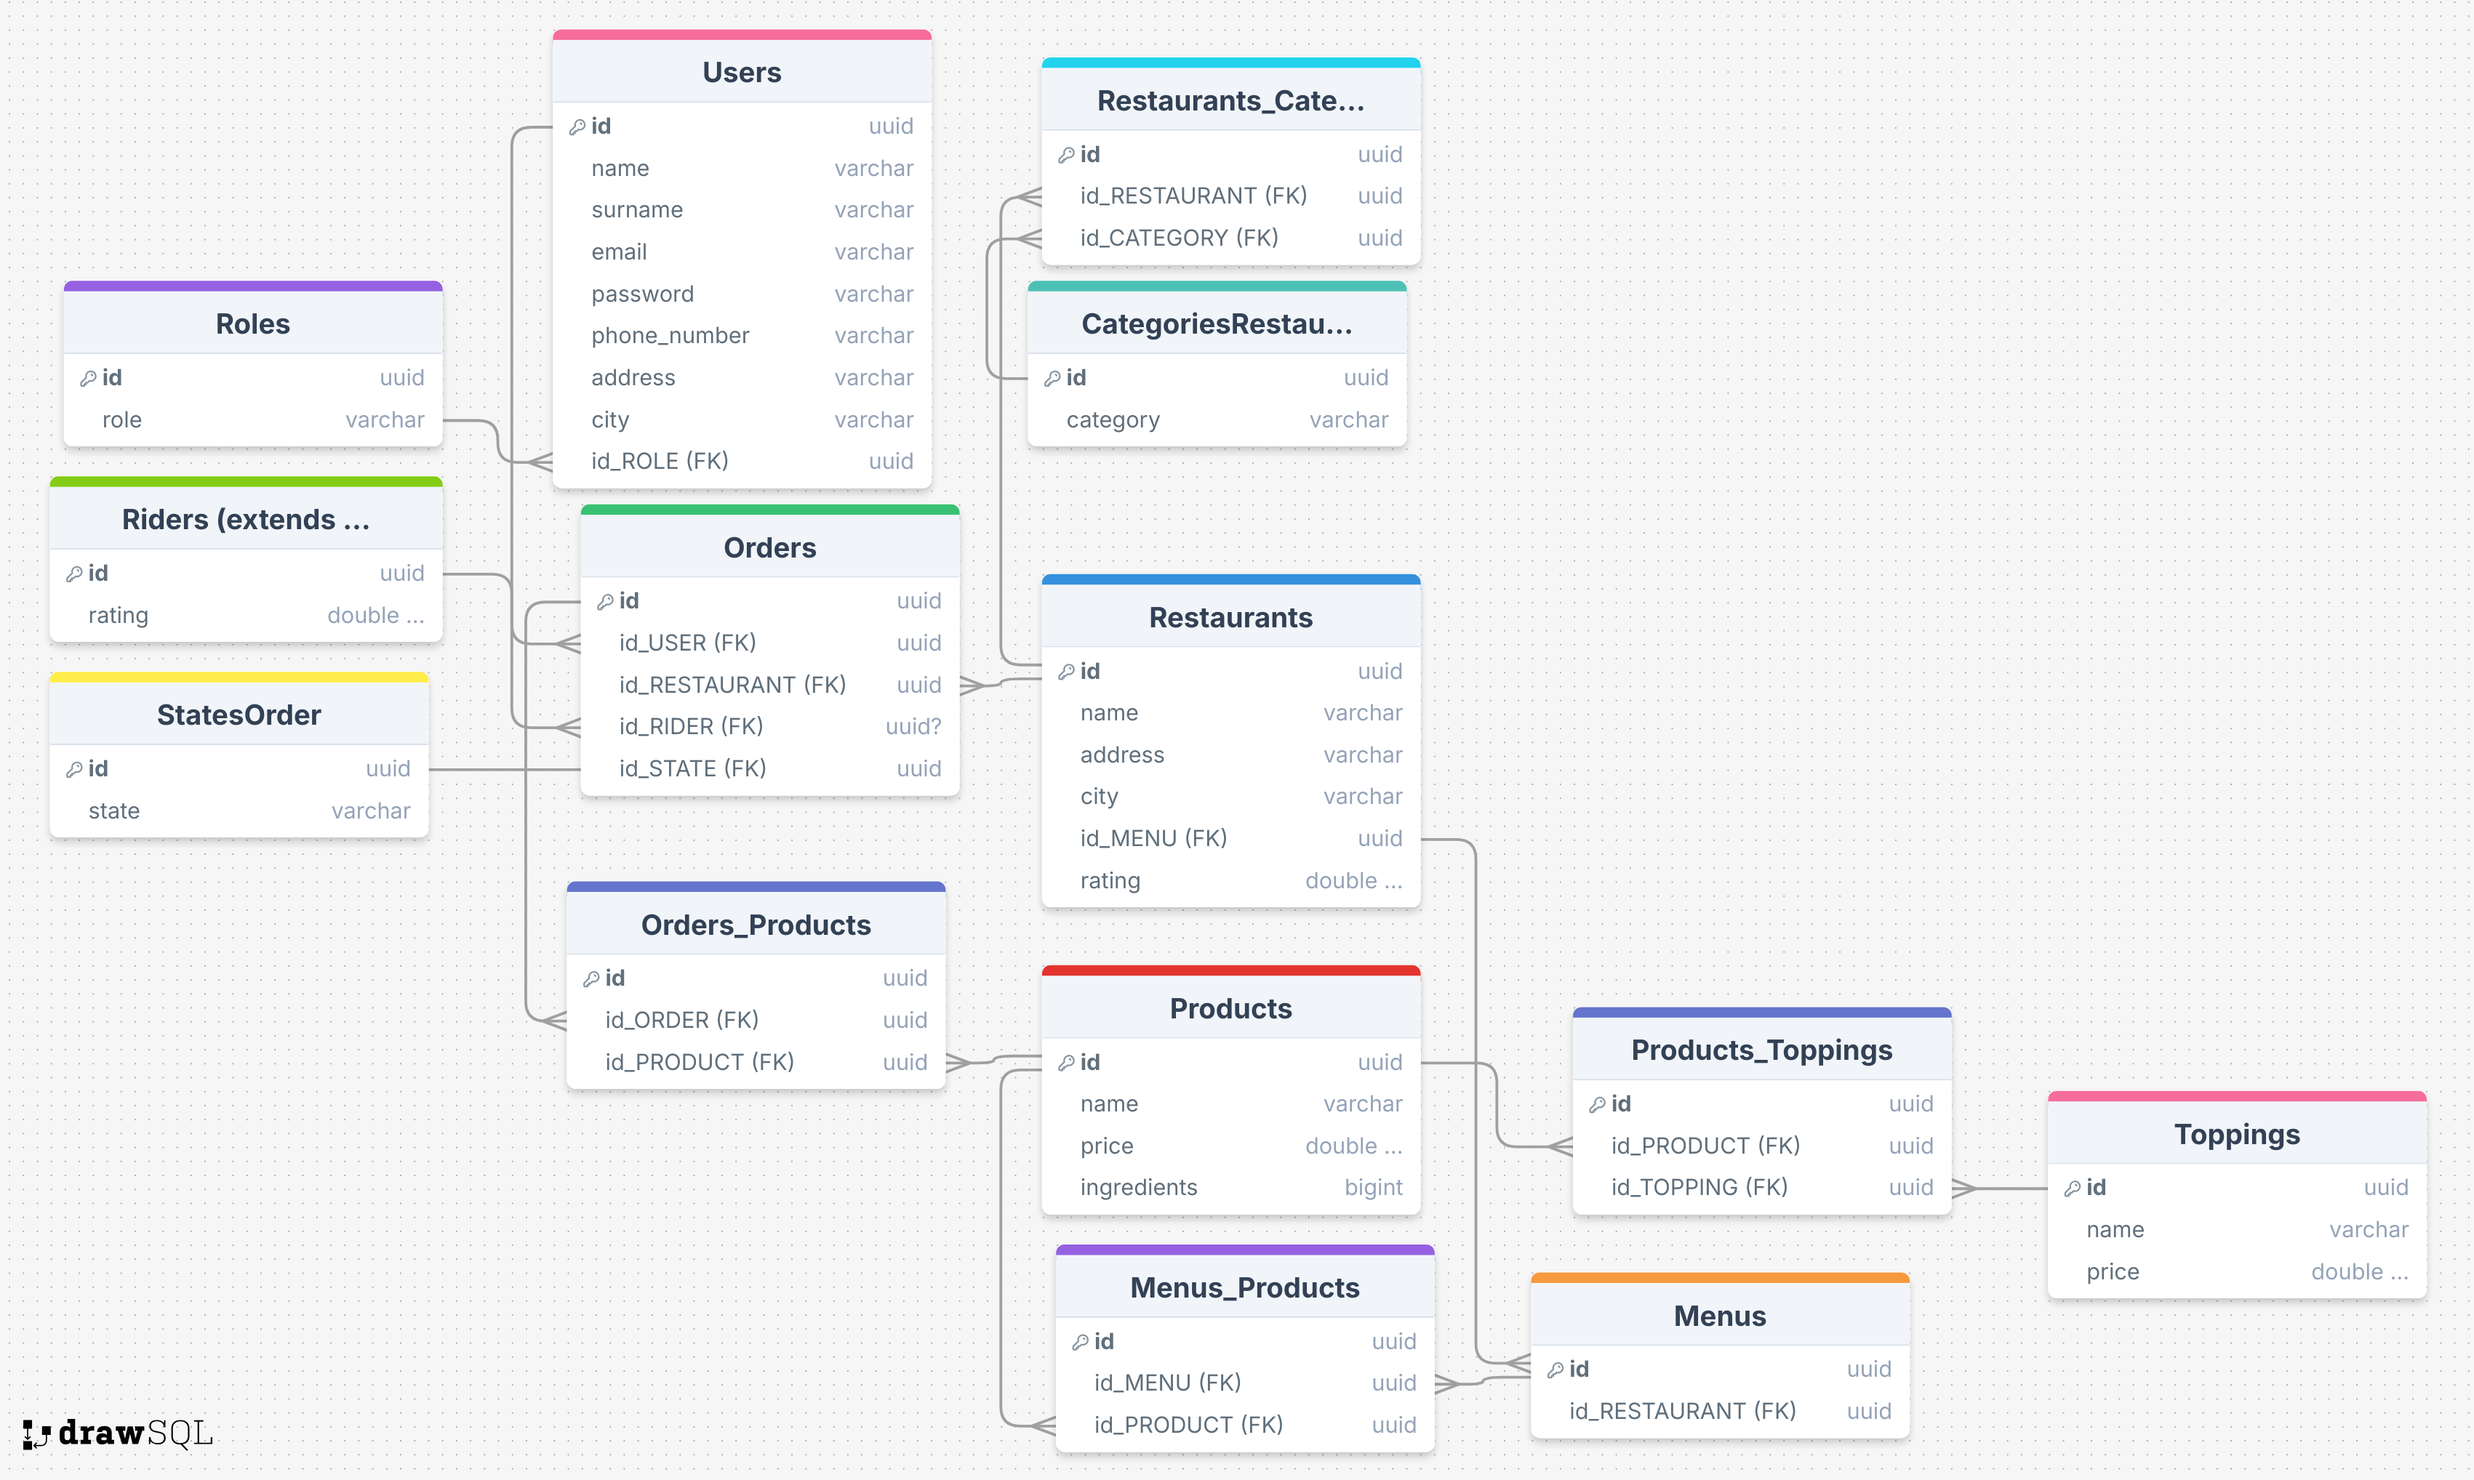
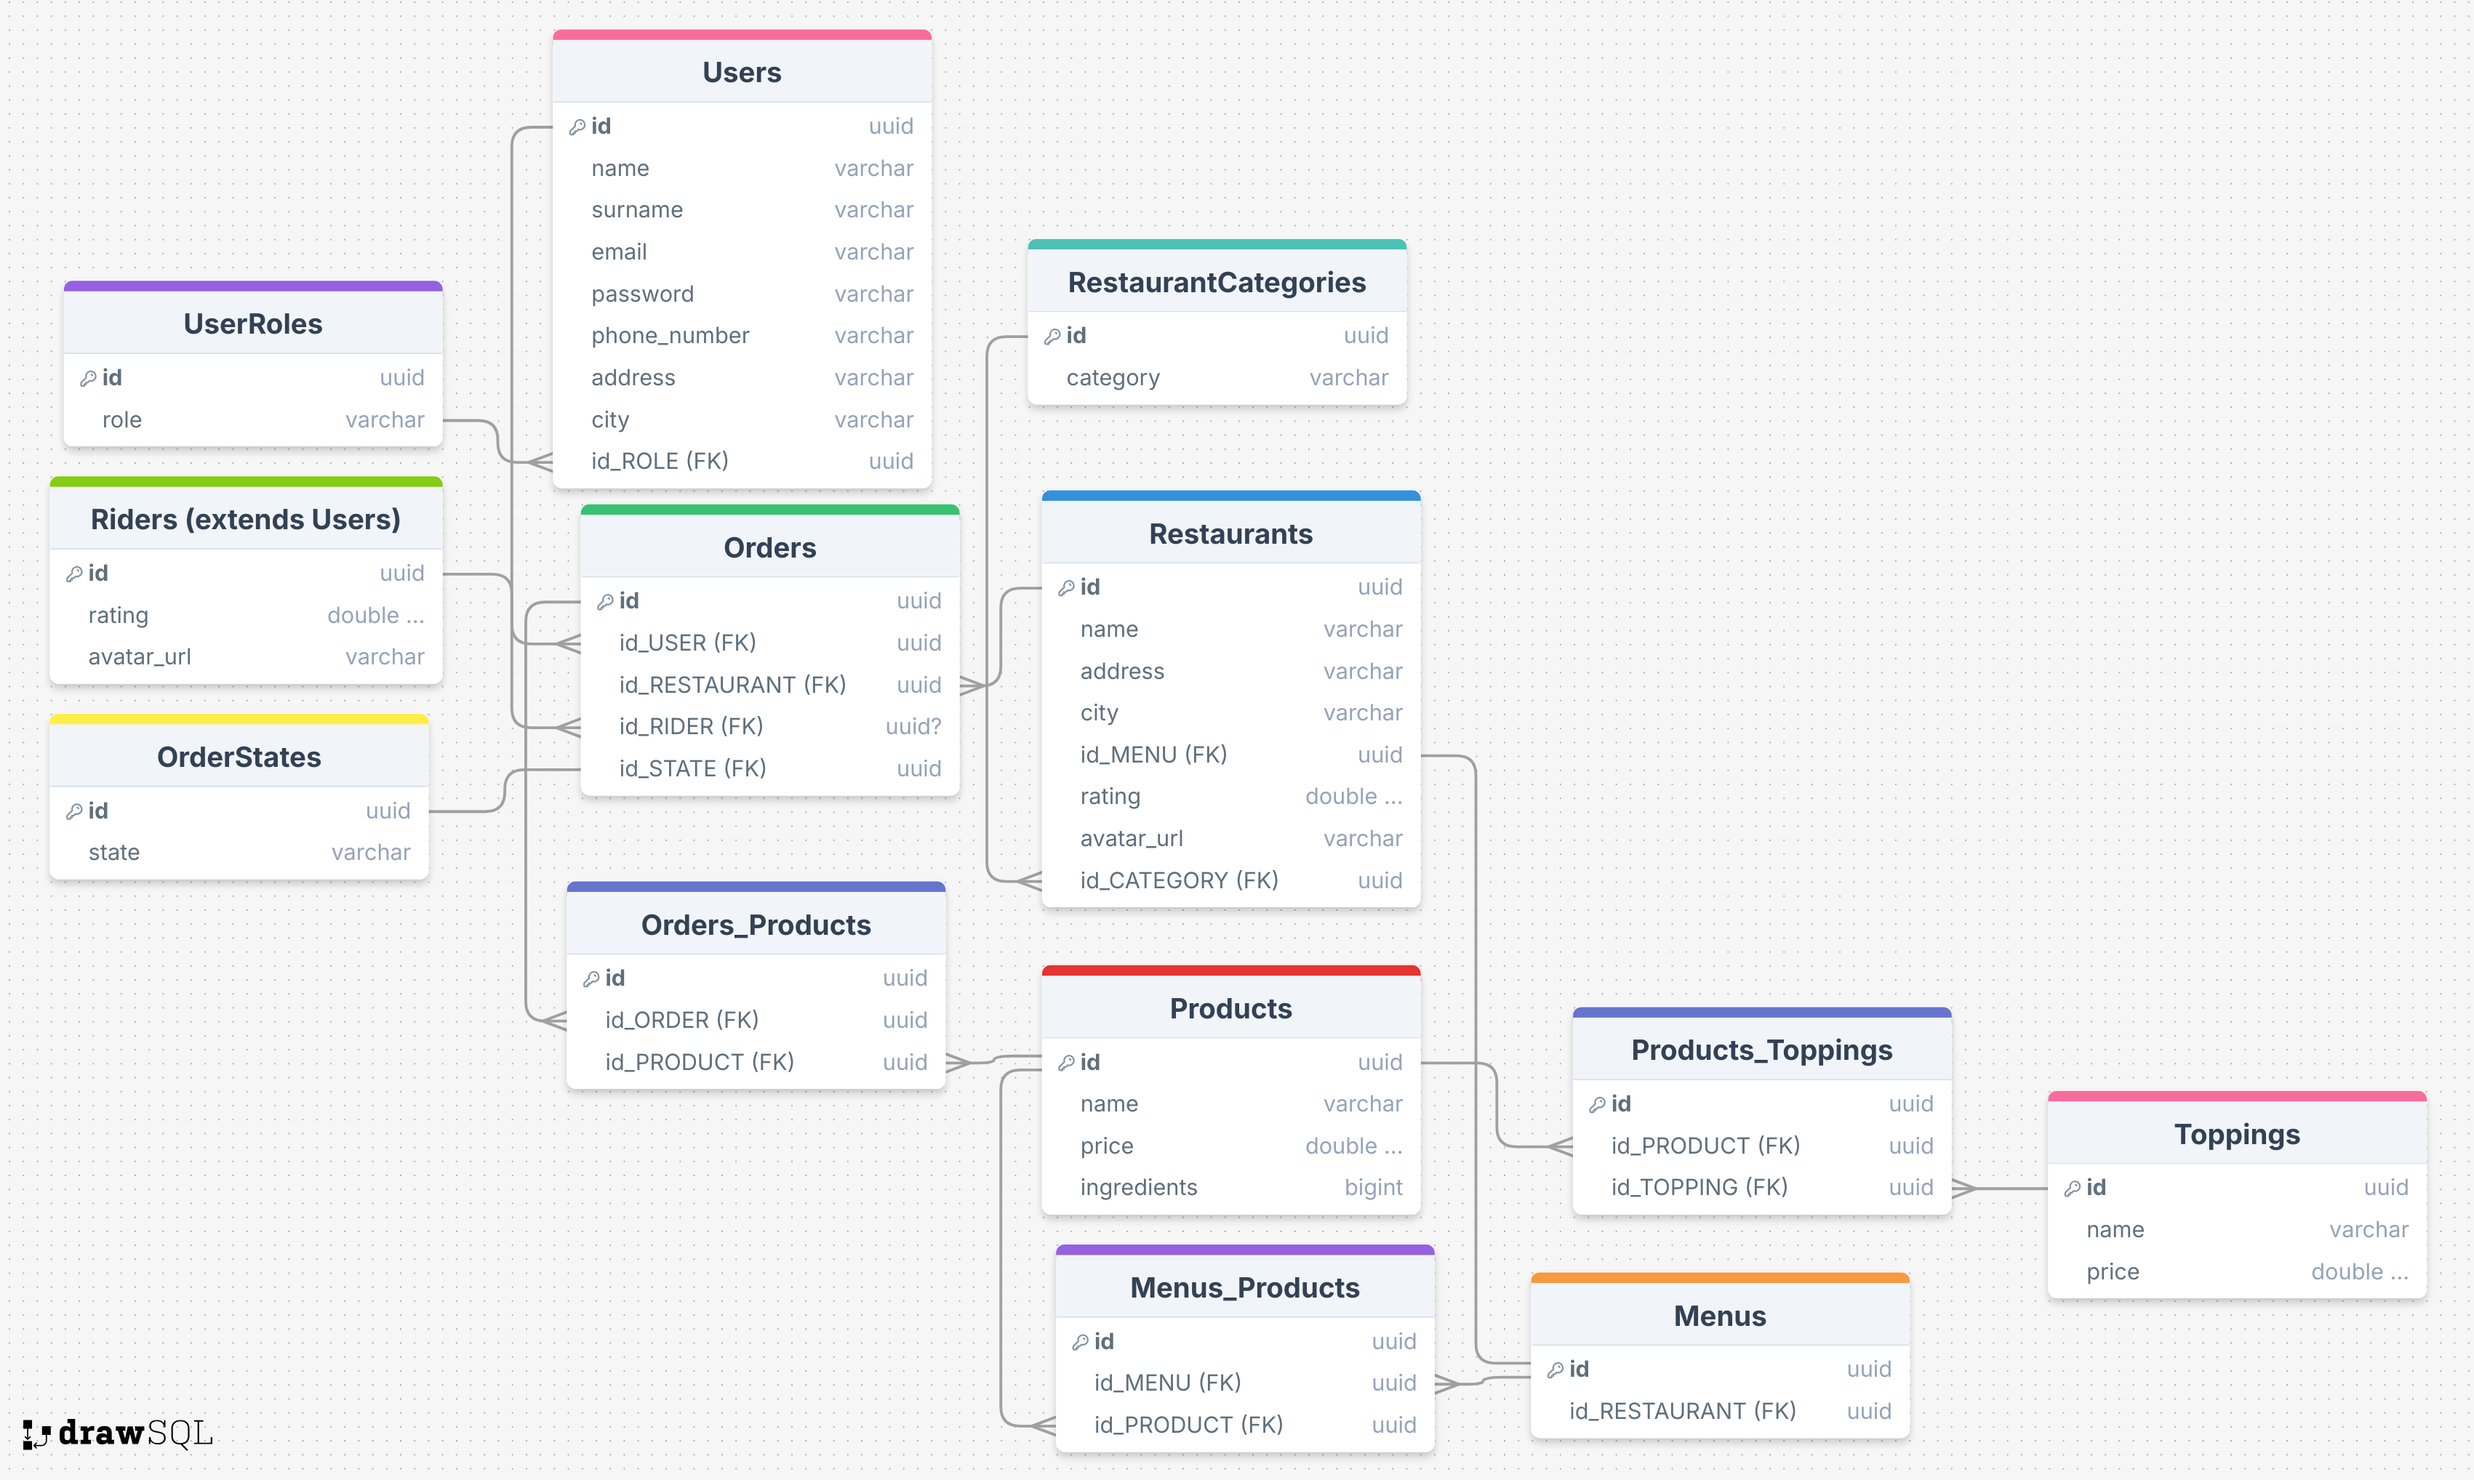
adds package entities

diff --git a/src/main/java/bertcoscia/FoodDelivery_BE/entities/User.java b/src/main/java/bertcoscia/FoodDelivery_BE/entities/User.java
@@ -1,0 +1,62 @@
+package bertcoscia.FoodDelivery_BE.entities;
+
+import com.fasterxml.jackson.annotation.JsonIgnoreProperties;
+import jakarta.persistence.*;
+import lombok.*;
+import org.springframework.security.core.GrantedAuthority;
+import org.springframework.security.core.authority.SimpleGrantedAuthority;
+import org.springframework.security.core.userdetails.UserDetails;
+
+import java.util.Collection;
+import java.util.List;
+import java.util.UUID;
+
+@Entity
+@Table(name = "users")
+@Inheritance(strategy = InheritanceType.SINGLE_TABLE)
+@DiscriminatorColumn(name = "user_type", discriminatorType = DiscriminatorType.STRING)
+@DiscriminatorValue("user")
+@NoArgsConstructor
+@Getter
+@Setter
+@ToString
+@JsonIgnoreProperties({"password", "enabled", "accountNonLocked", "credentialsNonExpired", "accountNonExpired"})
+public class User implements UserDetails {
+    @Id
+    @GeneratedValue
+    @Setter(AccessLevel.NONE)
+    @Column(name = "id")
+    private UUID idUser;
+    private String name;
+    private String surname;
+    private String email;
+    private String password;
+    @Column(name = "phone_number")
+    private String phoneNumber;
+    private String address;
+    private String city;
+    @ManyToOne
+    @JoinColumn(name = "id_role")
+    private UserRole userRole;
+
+    public User(String name, String surname, String email, String password, String phoneNumber, String address, String city, UserRole userRole) {
+        this.name = name;
+        this.surname = surname;
+        this.email = email;
+        this.password = password;
+        this.phoneNumber = phoneNumber;
+        this.address = address;
+        this.city = city;
+        this.userRole = userRole;
+    }
+
+    @Override
+    public Collection<? extends GrantedAuthority> getAuthorities() {
+        return List.of(new SimpleGrantedAuthority(this.userRole.getUserRole()));
+    }
+
+    @Override
+    public String getUsername() {
+        return this.email;
+    }
+}

diff --git a/src/main/java/bertcoscia/FoodDelivery_BE/entities/Order.java b/src/main/java/bertcoscia/FoodDelivery_BE/entities/Order.java
@@ -1,0 +1,40 @@
+package bertcoscia.FoodDelivery_BE.entities;
+
+import jakarta.persistence.*;
+import lombok.*;
+
+import java.util.List;
+import java.util.UUID;
+
+@Entity
+@Table(name = "orders")
+@NoArgsConstructor
+@Setter
+@Getter
+@ToString
+public class Order {
+    @Id
+    @GeneratedValue
+    @Setter(AccessLevel.NONE)
+    @Column(name = "id")
+    private UUID idOrder;
+    @ManyToOne
+    @JoinColumn(name = "id_user", nullable = false)
+    private User user;
+    @ManyToOne
+    @JoinColumn(name = "id_restaurant", nullable = false)
+    private Restaurant restaurant;
+    @ManyToOne
+    @JoinColumn(name = "id_rider")
+    private Rider rider;
+    @ManyToOne
+    @JoinColumn(name = "id_order_state", nullable = false)
+    private OrderState orderState;
+    @ManyToMany(cascade = CascadeType.ALL)
+    @JoinTable(
+            name = "orders_products",
+            joinColumns = @JoinColumn(name = "id_order"),
+            inverseJoinColumns = @JoinColumn(name = "id_product")
+    )
+    private List<Product> productList;
+}

diff --git a/src/main/java/bertcoscia/FoodDelivery_BE/entities/Product.java b/src/main/java/bertcoscia/FoodDelivery_BE/entities/Product.java
@@ -1,0 +1,39 @@
+package bertcoscia.FoodDelivery_BE.entities;
+
+import jakarta.persistence.*;
+import lombok.*;
+
+import java.util.List;
+import java.util.UUID;
+
+@Entity
+@Table(name = "products")
+@NoArgsConstructor
+@Getter
+@Setter
+@ToString
+public class Product {
+    @Id
+    @GeneratedValue
+    @Setter(AccessLevel.NONE)
+    @Column(name = "id")
+    private UUID idProduct;
+    private String name;
+    private double price;
+    private String description;
+    @ManyToMany(cascade = CascadeType.ALL)
+    @JoinTable(
+            name = "menus_products",
+            joinColumns = @JoinColumn(name = "id_product"),
+            inverseJoinColumns = @JoinColumn(name = "id_menu")
+    )
+    private List<Menu> menuList;
+    @ManyToMany(mappedBy = "productList")
+    private List<Order> orderList;
+
+    public Product(String name, double price, String description) {
+        this.name = name;
+        this.price = price;
+        this.description = description;
+    }
+}

diff --git a/src/main/java/bertcoscia/FoodDelivery_BE/entities/Restaurant.java b/src/main/java/bertcoscia/FoodDelivery_BE/entities/Restaurant.java
@@ -1,0 +1,38 @@
+package bertcoscia.FoodDelivery_BE.entities;
+
+import jakarta.persistence.*;
+import lombok.*;
+
+import java.util.UUID;
+
+@Entity
+@Table(name = "restaurants")
+@NoArgsConstructor
+@Getter
+@Setter
+@ToString
+public class Restaurant {
+    @Id
+    @GeneratedValue
+    @Setter(AccessLevel.NONE)
+    @Column(name = "id")
+    private UUID idRestaurant;
+    private String name;
+    private String address;
+    private String city;
+    private double rating;
+    @OneToOne(cascade = CascadeType.ALL)
+    @JoinColumn(name = "id_menu")
+    private Menu menu;
+    @ManyToOne
+    @JoinColumn(name = "id_category")
+    private RestaurantCategory restaurantCategory;
+
+    public Restaurant(String name, String address, String city, double rating, RestaurantCategory restaurantCategory) {
+        this.name = name;
+        this.address = address;
+        this.city = city;
+        this.rating = rating;
+        this.restaurantCategory = restaurantCategory;
+    }
+}

diff --git a/src/main/java/bertcoscia/FoodDelivery_BE/entities/Rider.java b/src/main/java/bertcoscia/FoodDelivery_BE/entities/Rider.java
@@ -1,0 +1,23 @@
+package bertcoscia.FoodDelivery_BE.entities;
+
+import jakarta.persistence.DiscriminatorValue;
+import jakarta.persistence.Entity;
+import lombok.Getter;
+import lombok.NoArgsConstructor;
+import lombok.Setter;
+import lombok.ToString;
+
+@Entity
+@DiscriminatorValue("rider")
+@NoArgsConstructor
+@Getter
+@Setter
+@ToString
+public class Rider extends User {
+    private double rating;
+
+    public Rider(String name, String surname, String email, String password, String phoneNumber, String address, String city, UserRole userRole, double rating) {
+        super(name, surname, email, password, phoneNumber, address, city, userRole);
+        this.rating = rating;
+    }
+}

diff --git a/src/main/java/bertcoscia/FoodDelivery_BE/entities/Menu.java b/src/main/java/bertcoscia/FoodDelivery_BE/entities/Menu.java
@@ -1,0 +1,29 @@
+package bertcoscia.FoodDelivery_BE.entities;
+
+import jakarta.persistence.*;
+import lombok.*;
+
+import java.util.List;
+import java.util.UUID;
+
+@Entity
+@Table(name = "menus")
+@NoArgsConstructor
+@Getter
+@Setter
+@ToString
+public class Menu {
+    @Id
+    @GeneratedValue
+    @Setter(AccessLevel.NONE)
+    @Column(name = "id")
+    private UUID idMenu;
+    @OneToOne(mappedBy = "menu")
+    private Restaurant restaurant;
+    @ManyToMany(mappedBy = "menuList")
+    private List<Product> productList;
+
+    public Menu(Restaurant restaurant) {
+        this.restaurant = restaurant;
+    }
+}

diff --git a/src/main/java/bertcoscia/FoodDelivery_BE/entities/RestaurantCategory.java b/src/main/java/bertcoscia/FoodDelivery_BE/entities/RestaurantCategory.java
@@ -1,0 +1,26 @@
+package bertcoscia.FoodDelivery_BE.entities;
+
+import jakarta.persistence.*;
+import lombok.*;
+
+import java.util.UUID;
+
+@Entity
+@Table(name = "restaurant_categories")
+@NoArgsConstructor
+@Getter
+@Setter
+@ToString
+public class RestaurantCategory {
+    @Id
+    @GeneratedValue
+    @Setter(AccessLevel.NONE)
+    @Column(name = "id")
+    private UUID idCategory;
+    @Column(name = "restaurant_category")
+    private String restaurantCategory;
+
+    public RestaurantCategory(String restaurantCategory) {
+        this.restaurantCategory = restaurantCategory;
+    }
+}

diff --git a/src/main/java/bertcoscia/FoodDelivery_BE/entities/OrderState.java b/src/main/java/bertcoscia/FoodDelivery_BE/entities/OrderState.java
@@ -1,0 +1,26 @@
+package bertcoscia.FoodDelivery_BE.entities;
+
+import jakarta.persistence.*;
+import lombok.*;
+
+import java.util.UUID;
+
+@Entity
+@Table(name = "order_states")
+@NoArgsConstructor
+@Getter
+@Setter
+@ToString
+public class OrderState {
+    @Id
+    @GeneratedValue
+    @Setter(AccessLevel.NONE)
+    @Column(name = "id")
+    private UUID idOrderState;
+    @Column(name = "order_state")
+    private String orderState;
+
+    public OrderState(String orderState) {
+        this.orderState = orderState;
+    }
+}

diff --git a/src/main/java/bertcoscia/FoodDelivery_BE/entities/Topping.java b/src/main/java/bertcoscia/FoodDelivery_BE/entities/Topping.java
@@ -1,0 +1,27 @@
+package bertcoscia.FoodDelivery_BE.entities;
+
+import jakarta.persistence.*;
+import lombok.*;
+
+import java.util.UUID;
+
+@Entity
+@Table(name = "toppings")
+@NoArgsConstructor
+@Getter
+@Setter
+@ToString
+public class Topping {
+    @Id
+    @GeneratedValue
+    @Setter(AccessLevel.NONE)
+    @Column(name = "id")
+    private UUID idTopping;
+    private String name;
+    private double price;
+
+    public Topping(String name, double price) {
+        this.name = name;
+        this.price = price;
+    }
+}

diff --git a/src/main/java/bertcoscia/FoodDelivery_BE/entities/UserRole.java b/src/main/java/bertcoscia/FoodDelivery_BE/entities/UserRole.java
@@ -1,0 +1,26 @@
+package bertcoscia.FoodDelivery_BE.entities;
+
+import jakarta.persistence.*;
+import lombok.*;
+
+import java.util.UUID;
+
+@Entity
+@Table(name = "roles")
+@NoArgsConstructor
+@Getter
+@Setter
+@ToString
+public class UserRole {
+    @Id
+    @GeneratedValue
+    @Setter(AccessLevel.NONE)
+    @Column(name = "id")
+    private UUID idRole;
+    @Column(name = "user_role")
+    private String userRole;
+
+    public UserRole(String userRole) {
+        this.userRole = userRole;
+    }
+}
